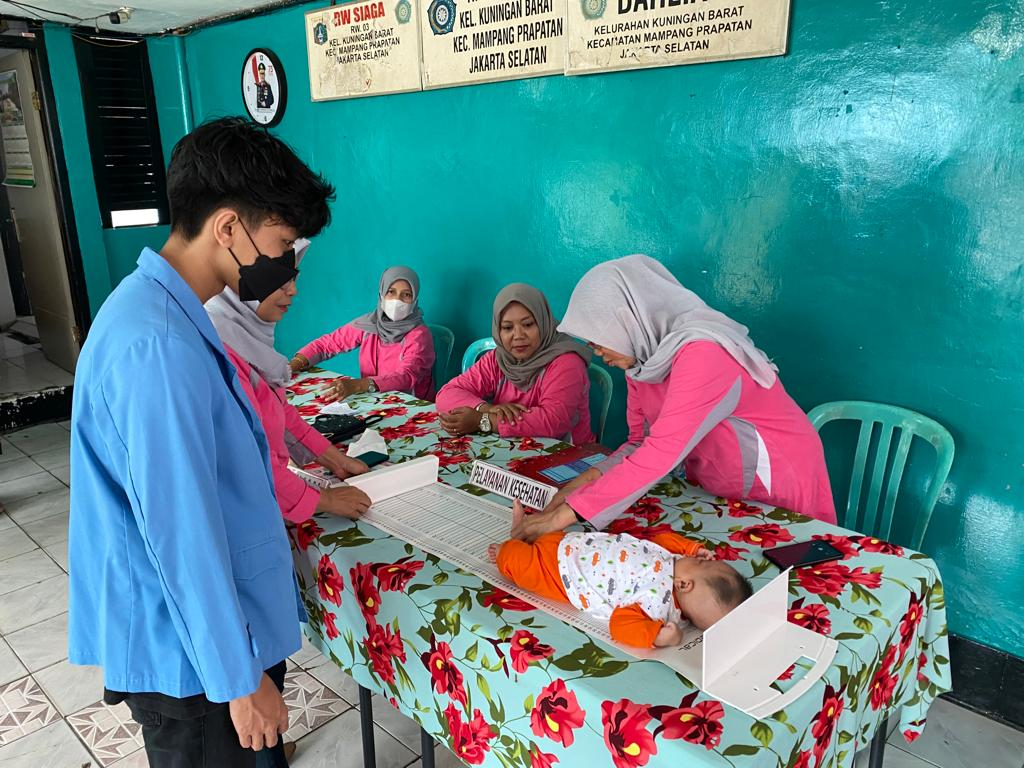
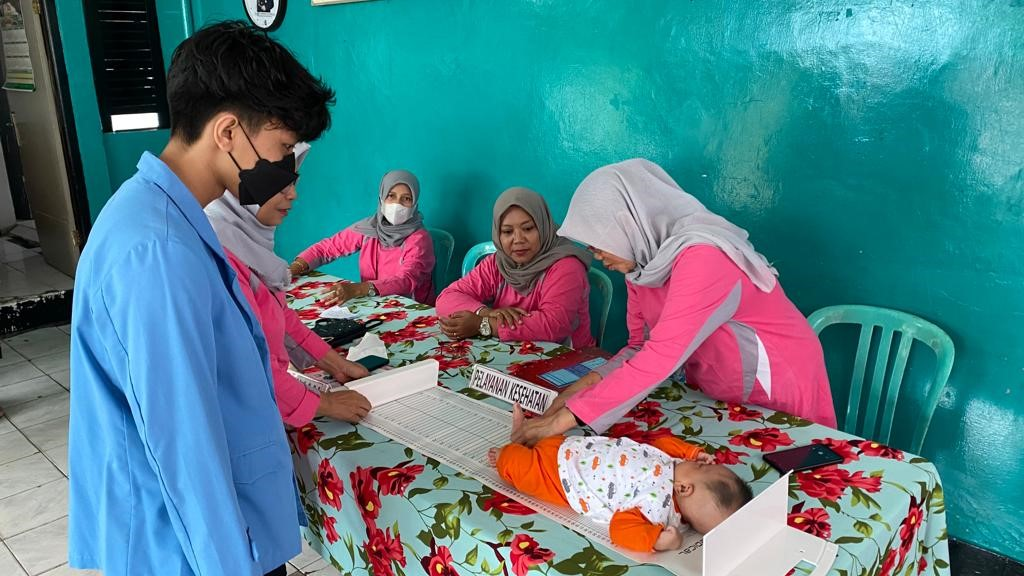
tambahan dan perubahan pada isi portfolio 3

diff --git a/projects.html b/projects.html
@@ -61,7 +61,7 @@
       <div class="col-md-4 mb-3">
         <div class="card">
           <a href="#" class="text-decoration-none text-reset">
-          <img src="img/proj/awal.jpg" class="img-fluid">
+          <img src="img/proj/doku1.jpg" class="img-fluid">
           <div class="container-card">
             <h4><b>3</b></h4>
             <p>Membuat aplikasi android sederhana untuk Posyandu Dahlia Kuningan Barat</p>
@@ -73,7 +73,7 @@
     <div class="col-md-4 mb-3">
       <div class="card">
         <a href="#" class="text-decoration-none text-reset">
-        <img src="img/proj/akhir.jpg" class="img-fluid" style="width: 200px; height: 200px;">
+        <img src="img/proj/doku2.jpg" class="img-fluid" style="width: 200px; height: 200px;">
         <div class="container-card">
           <h4><b>4</b></h4>
           <p>Dokumentasi selama proses pembuatan aplikasi android Posyandu Dahlia Kuningan Barat</p>
